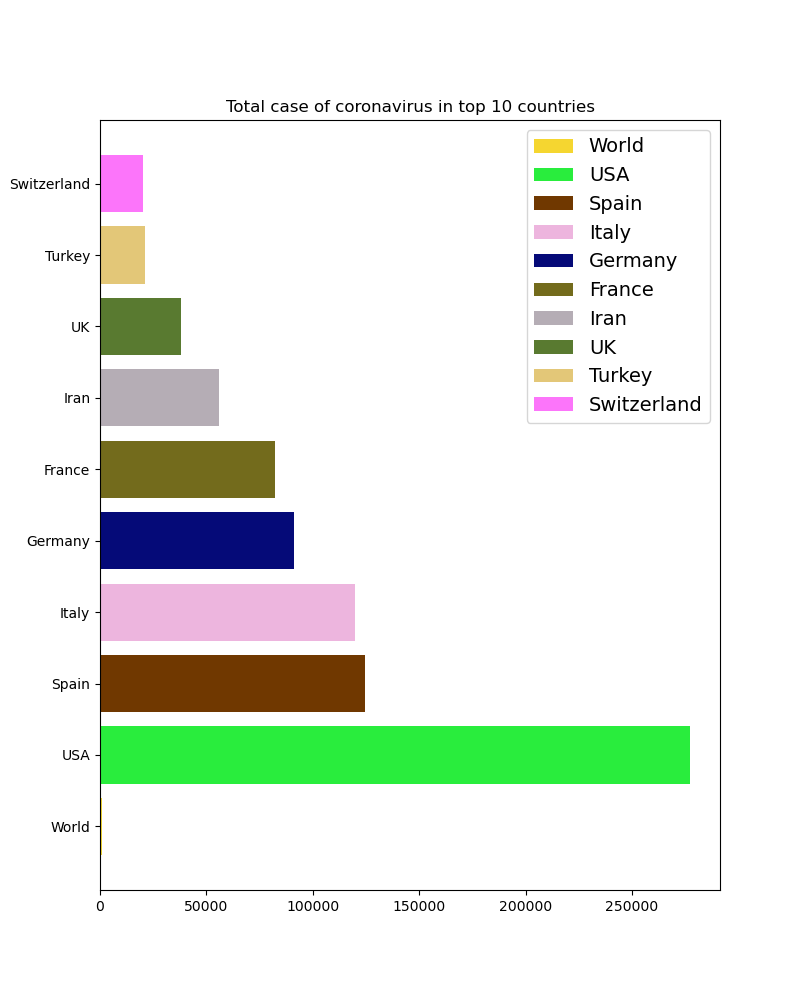
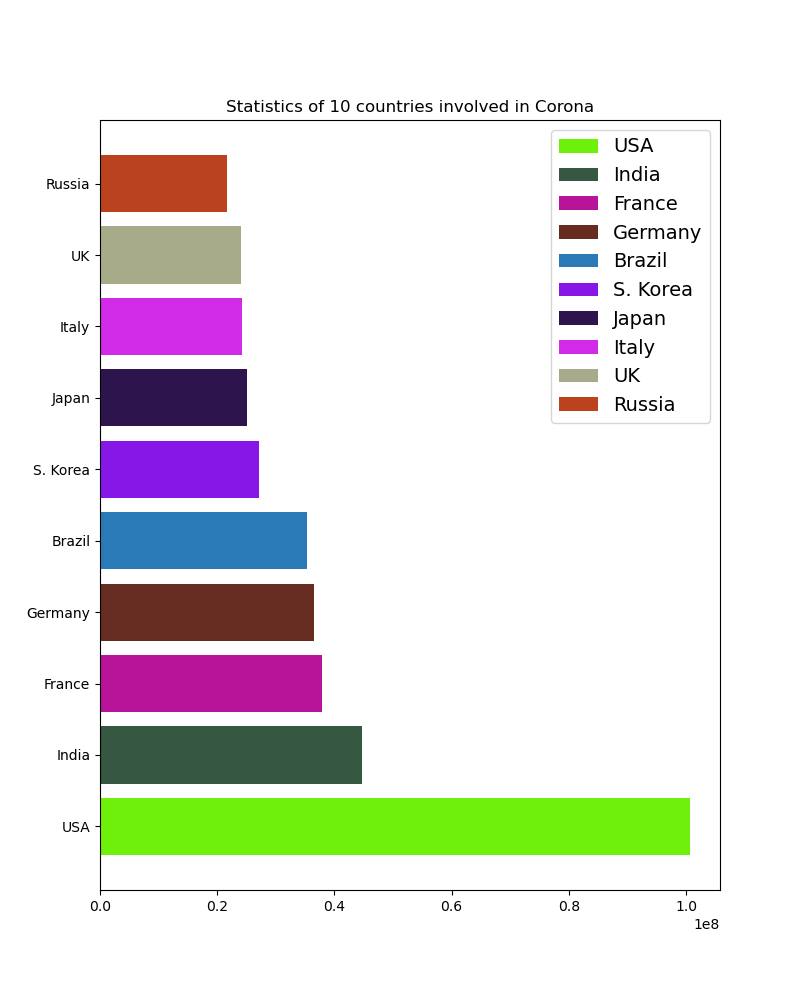
Draw Plot with matplotlib
- add README.md

diff --git a/templates/index.html b/templates/index.html
@@ -77,7 +77,7 @@
     <!-- End Slider -->
 
     <!-- Plot -->
-    <img class="plot" src="statics/DB/plot.png" alt="">
+    <img class="plot" src="{{ plot_src }}" alt="">
     <p class="plot-title">Chart of 10 countries that have been affected by the corona virus</p>
 
         <!-- Info Table -->

diff --git a/Draw_Plot.py b/Draw_Plot.py
@@ -1,0 +1,54 @@
+import matplotlib.pyplot as plt
+import numpy as np
+
+
+
+
+def random_color(number):
+    colors = []
+    i = 0
+    while i<number:
+        this_color = list(np.random.choice(range(100), size=3))
+        tmp_color = []
+        tmp_color.append(this_color[0]/100)
+        tmp_color.append(this_color[1]/100)
+        tmp_color.append(this_color[2]/100)
+        colors.append(tmp_color)
+
+        i += 1
+
+    return colors
+
+
+
+
+
+def get_plot(country, totalcases):
+    number_of_countres = 10
+    tmp_country = []
+    totalcases_int = []
+
+    for i in range(0, number_of_countres):
+        string_number = totalcases[i]
+        if ',' in string_number:
+            tmp_list = string_number.split(",")
+            string_number = tmp_list[0] + tmp_list[1] + tmp_list[2]
+            totalcases_int.append(int(string_number))
+        else:
+            totalcases_int.append(int(string_number))
+
+        tmp_country.append(country[i])
+
+    country = tmp_country
+
+
+    plot_src = "statics/DB/plot.png"
+    register = range(0, number_of_countres)
+    plt.figure(figsize= (8, 10))
+    b = plt.barh(register, totalcases_int,height=.8, color=tuple(random_color(number_of_countres)))
+    plt.yticks(register, country)
+    plt.title("Statistics of 10 countries involved in Corona")
+    plt.legend(b, country, fontsize = 14)
+    plt.savefig(plot_src)
+
+    return plot_src

diff --git a/app.py b/app.py
@@ -1,6 +1,7 @@
 from flask import Flask ,render_template
 import Run_Spider
 import Read_DB
+import Draw_Plot
 
 
 app = Flask(__name__, static_folder = "statics")
@@ -29,8 +30,10 @@ def crawl_info():
     Active_cases = Table_info[6]
 
     # Step 3 : Get Plot Image
+    plot_src = Draw_Plot.get_plot(Country, Total_Cases)
+
 
     return render_template("index.html", Coronavirus_Cases = Coronavirus_Cases, Deaths = Deaths,
     Recovered = Recovered, Country = Country, Total_Cases = Total_Cases, New_cases = New_cases,
     New_Deaths = New_Deaths, Total_Recovered = Total_Recovered, New_Recovered = New_Recovered, 
-    Active_cases = Active_cases)
+    Active_cases = Active_cases, plot_src = plot_src)

diff --git a/README.md b/README.md
@@ -1,0 +1,23 @@
+# **Corona Project**
+Creating a website using Flask to compile statistics of countries affected by the corona virus.
+
+## How to Use
+You have to install Flask :
+- In command prompt/Terminal: pip install flask
+
+
+Once you have installed flask framework, just clone/download this project, access the folder in command prompt/Terminal and run the following command:
+- flask run
+
+And then you get a link like this (http://127.0.0.1:5000) and enter it in your browser.
+
+
+<br />
+<br />
+<br />
+<br />
+
+### **taTIran** :)
+
+
+
